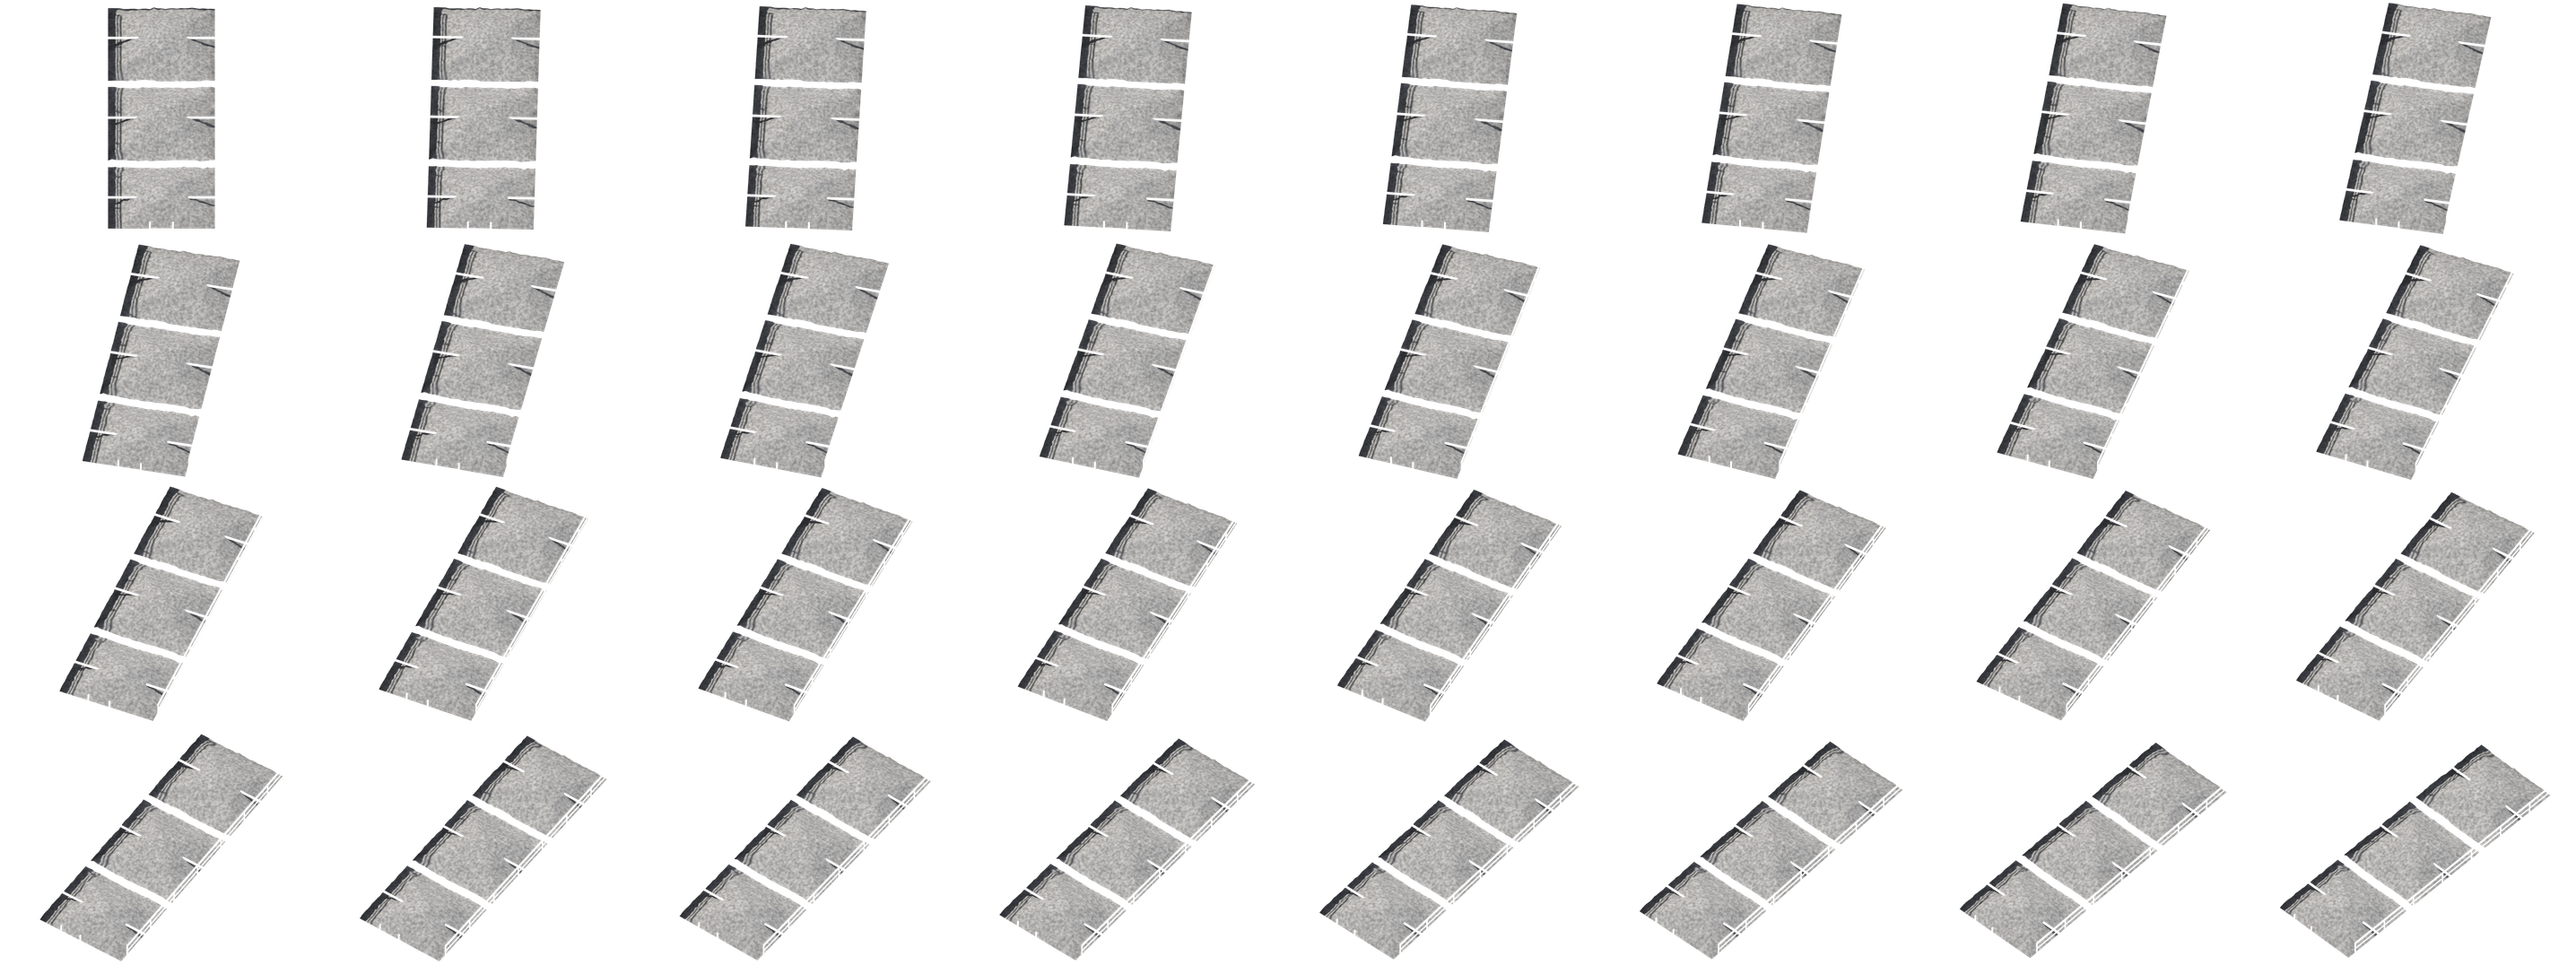
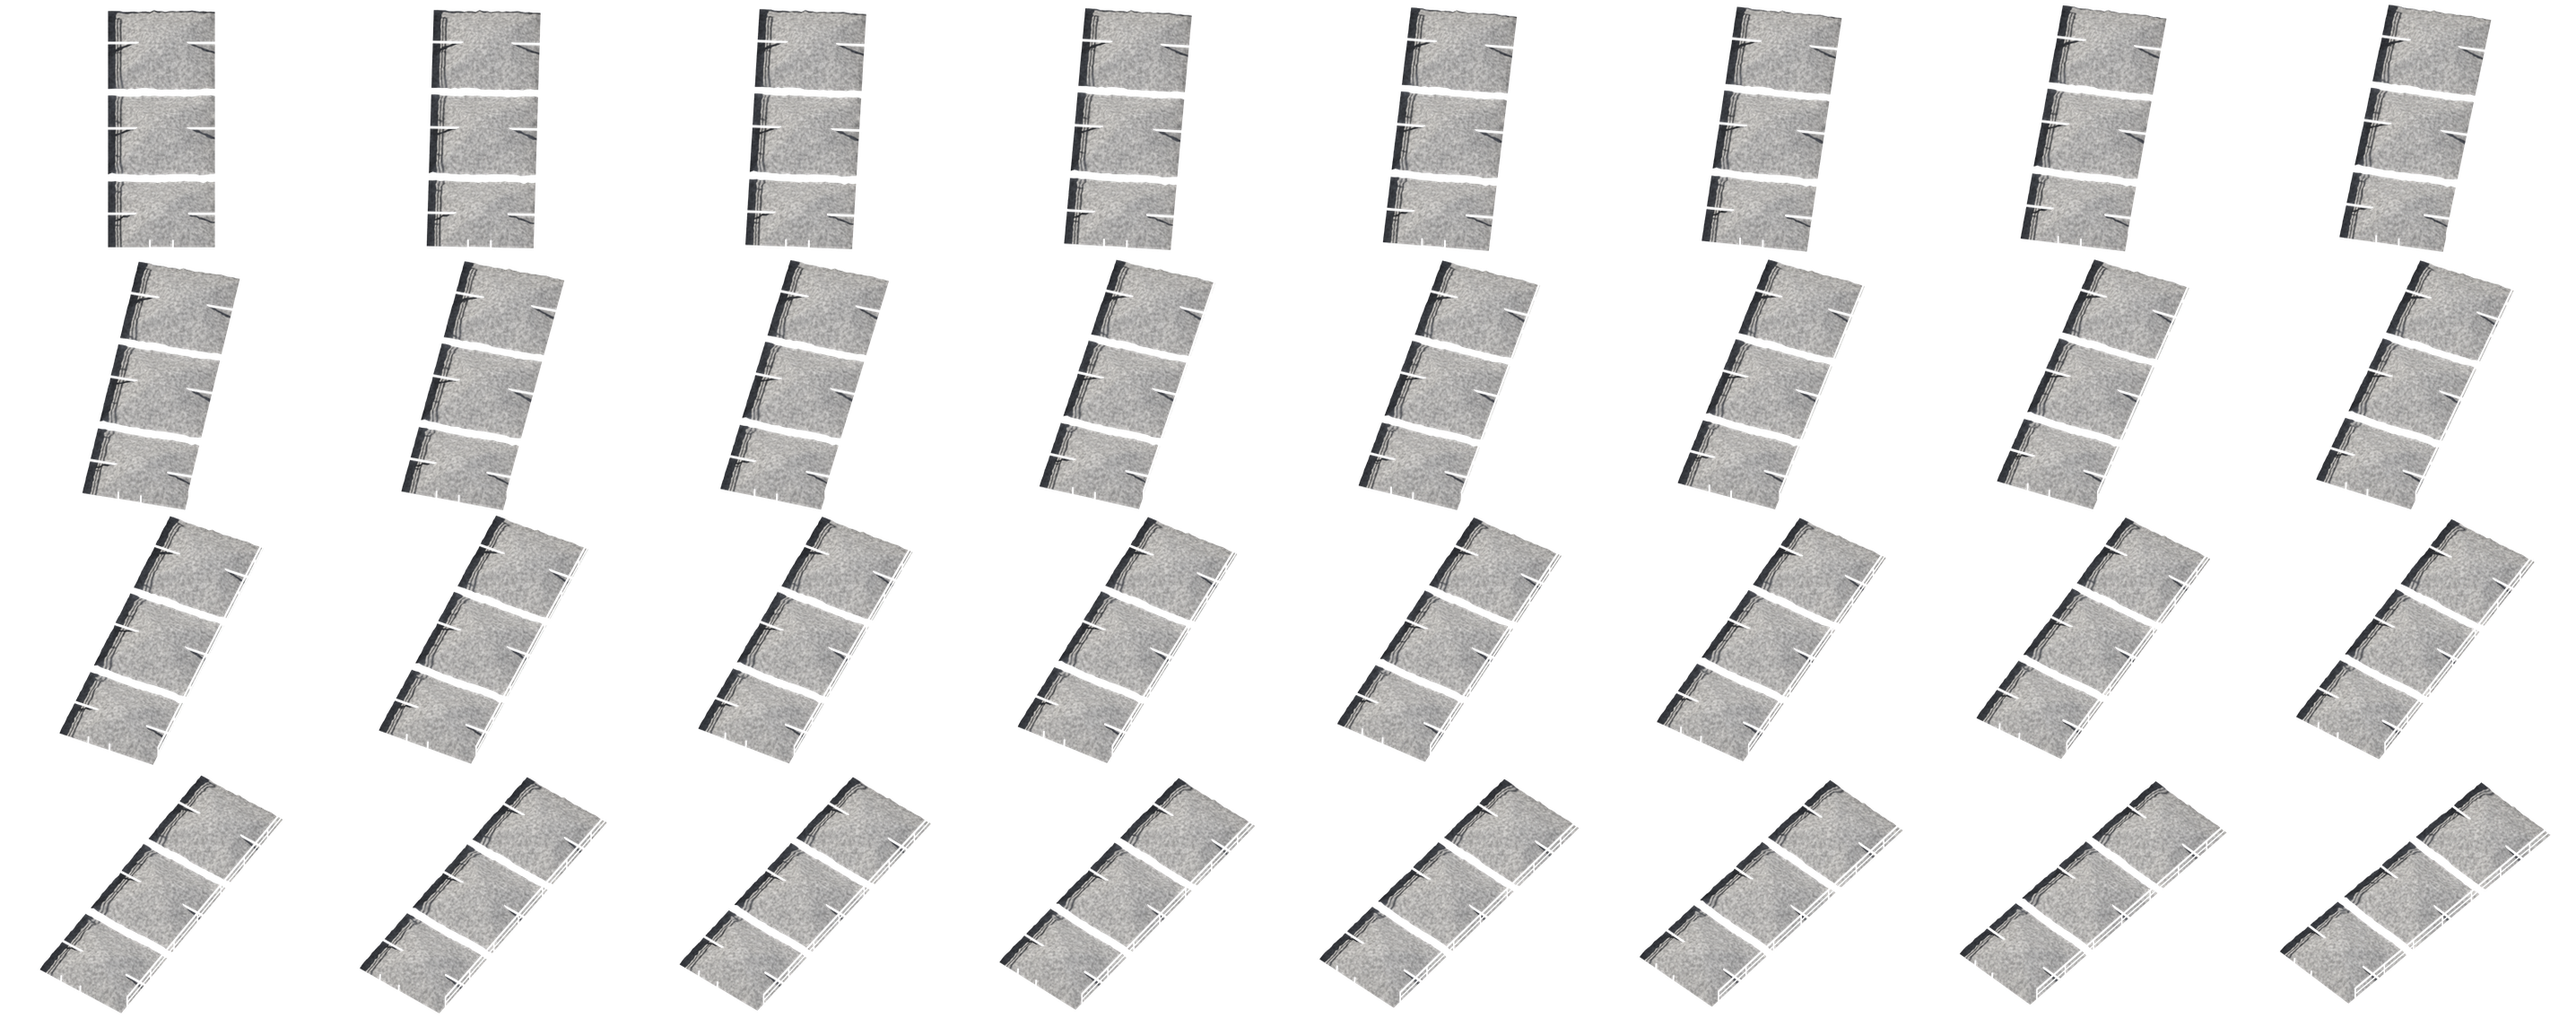
Fit the cargo heap into the hopper on north-south track
The game projects the wagon's sprite shift with its orientation, the heaps
drawn by the script are not projected, so on north-south track the heap sat
0.55 tiles too high and 7 % too short. build_sprites moves and stretches the
heap frames by that much, scaled by cos² of the orientation; the current
heap sheet is patched the same way.

Claude-Session: https://claude.ai/code/session_012U1F3Mps7ZQNK2M3EeMnz9

diff --git a/tools/blender/build_sprites.py b/tools/blender/build_sprites.py
@@ -19,6 +19,11 @@ STATION_COLOR = (0.45, 0.5, 0.22)
 # wagon along the track, so a straight wagon would sit low between its neighbours
 # (in game it measured ~0.33 tiles too far from the train ahead).
 WAGON_LIFT = 0.33
+# The game projects the wagon's sprite shift with its orientation, the script-drawn
+# heaps are not projected. Measured on north-south track the heap sat 0.55 tiles
+# too high and 7 % too short in the hopper; east-west it fits.
+HEAP_DROP = 0.55
+HEAP_STRETCH = 0.07
 
 
 def frames(src, kind, count, stretch):
@@ -33,6 +38,24 @@ def lifted(images, lift):
         dy = round(lift * 64 * math.cos(2 * math.pi * i / (2 * len(images))) ** 2)
         moved = Image.new("RGBA", im.size)
         moved.paste(im, (0, -dy))
+        out.append(moved)
+    return out
+
+
+def heap_fit(images, drop, stretch):
+    """Moves each heap frame down and stretches it along the track, scaled like lifted()."""
+    from PIL import Image
+    out = []
+    for i, im in enumerate(images):
+        k = math.cos(2 * math.pi * i / (2 * len(images))) ** 2
+        box = im.getbbox()
+        moved = Image.new("RGBA", im.size)
+        if box:
+            part = im.crop(box)
+            h = round(part.height * (1 + stretch * k))
+            part = part.resize((part.width, h), Image.LANCZOS)
+            top = round((box[1] + box[3]) / 2 - h / 2 + drop * 64 * k)
+            moved.paste(part, (box[0], top))
         out.append(moved)
     return out
 
@@ -103,8 +126,12 @@ def main(render_dir):
     src = os.path.join(render_dir, "w1")
     if os.path.isdir(src):
         o = origin_of(src, 1.0)
-        meta["wagon"] = {kind: write_sheet(lifted(frames(src, kind, 128, 1.0), WAGON_LIFT), o, f"bulk-wagon-{kind}", 8, 4)
-                         for kind in ("color", "mask", "shadow", "load1", "load2", "load3", "load4")}
+        meta["wagon"] = {}
+        for kind in ("color", "mask", "shadow", "load1", "load2", "load3", "load4"):
+            images = lifted(frames(src, kind, 128, 1.0), WAGON_LIFT)
+            if kind.startswith("load"):
+                images = heap_fit(images, HEAP_DROP, HEAP_STRETCH)
+            meta["wagon"][kind] = write_sheet(images, o, f"bulk-wagon-{kind}", 8, 4)
 
     for key, layers in (
         ("b3", {"base": 1, "base_mask": 1, "shadow": 1, "idle": 1, "idle_mask": 1, "extend": 8, "extend_mask": 8,
